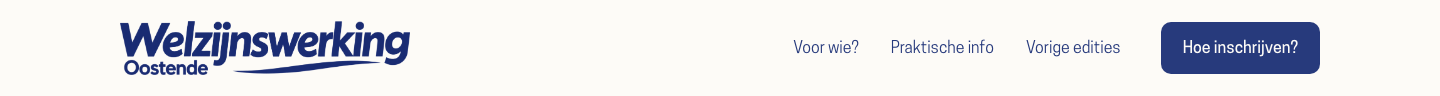
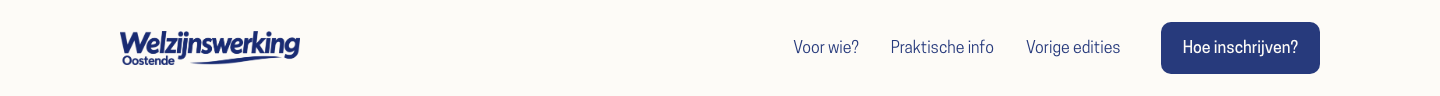
Reduce wordmark scale for a quieter page hierarchy

Changed region(s): [[0.0625, 0.2188, 0.3125, 0.7812]]

diff --git a/src/styles/campaign.css b/src/styles/campaign.css
@@ -140,8 +140,8 @@ body.menu-open{position:fixed;top:var(--menu-scroll-offset);width:100%;overflow:
 
 /* Approved signature wordmark, kept intact on every surface. */
 .brand-image{display:block;width:100%;height:auto}
-.header-wordmark{display:block;flex-shrink:0;width:clamp(160px,50vw,270px);padding-block:8px}
-.mobile-menu-brand{display:block;width:min(230px,100%)}
-.footer-brand{display:block;width:250px;max-width:100%}
-@media(min-width:1001px){.header-wordmark{width:290px}}
+.header-wordmark{display:block;flex-shrink:0;width:150px;padding-block:8px}
+.mobile-menu-brand{display:block;width:min(170px,100%)}
+.footer-brand{display:block;width:180px;max-width:100%}
+@media(min-width:1001px){.header-wordmark{width:180px}}
 @media(max-width:600px){.header-inner{gap:12px}.menu-toggle{flex-shrink:0;white-space:nowrap}}

diff --git a/DESIGN.md b/DESIGN.md
@@ -373,4 +373,4 @@ Op verzoek van de gebruiker staat “Welzijnswerking” met hoofdletter in de na
 
 ## Goedgekeurd beeldwoordmerk met sierstreep — 21 oktober 2026
 
-De gebruiker heeft het gegenereerde donkerblauwe beeldwoordmerk met licht hellende letters en de asymmetrische sierstreep expliciet goedgekeurd en gevraagd het toe te passen. Dit vervangt de eerdere tekstwoordmerken in header, mobiele menudialoog en footer. De goedgekeurde bron staat in `assets/branding/welzijnswerking-signature-concept-v4.png`; de transparante PNG voor de website staat, met transparante buitenruimte bijgesneden, in `public/images/branding/welzijnswerking-oostende.png` (1847×339). Het beeld behoudt zijn volledige verhouding, met beschrijvende alt-tekst en expliciete afmetingen. Headerbreedte is 160–270px op mobiel/tablet en 290px op desktop; footer 250px en menudialoog maximaal 230px. De menuknop blijft op smalle schermen op één regel. Dit is een gerichte merkuitzondering; Cooper Hewitt en bestaande tekst- en kleurrollen blijven gelden voor de overige interface. Build en Astro-controle slagen; visuele controles op 320, 390, 768, 1001 en 1440px, footer en geopende menudialoog staan in `qa/branding-2026-10-21/`.
+De gebruiker heeft het gegenereerde donkerblauwe beeldwoordmerk met licht hellende letters en de asymmetrische sierstreep expliciet goedgekeurd en gevraagd het toe te passen. Dit vervangt de eerdere tekstwoordmerken in header, mobiele menudialoog en footer. De goedgekeurde bron staat in `assets/branding/welzijnswerking-signature-concept-v4.png`; de transparante PNG voor de website staat, met transparante buitenruimte bijgesneden, in `public/images/branding/welzijnswerking-oostende.png` (1847×339). Het beeld behoudt zijn volledige verhouding, met beschrijvende alt-tekst en expliciete afmetingen. Na gebruikersfeedback op de te dominante toepassing is de headerbreedte teruggebracht tot 150px op mobiel/tablet en 180px op desktop; footer 180px en menudialoog maximaal 170px. Het woordmerk blijft een bescheiden afzender in de volledige paginacompositie. De menuknop blijft op smalle schermen op één regel. Dit is een gerichte merkuitzondering; Cooper Hewitt en bestaande tekst- en kleurrollen blijven gelden voor de overige interface. Build en Astro-controle slagen; visuele controles op 320, 390, 768, 1001 en 1440px, footer en geopende menudialoog staan in `qa/branding-2026-10-21/`.
